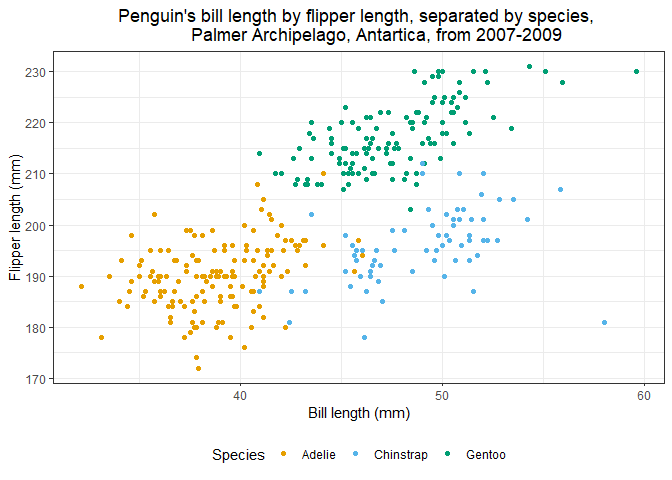
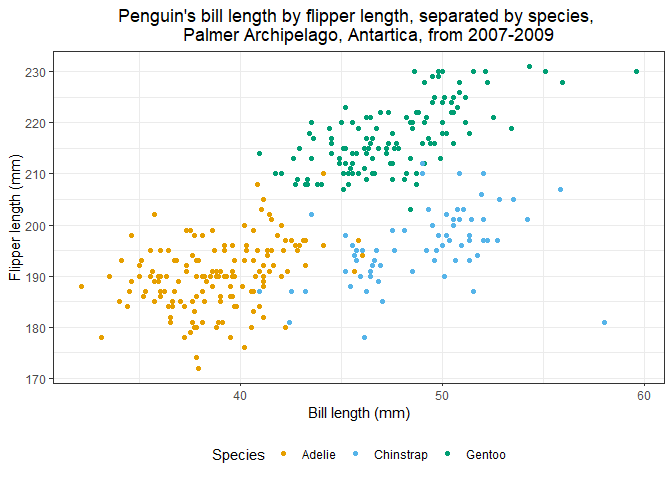
Styling changes for code chunks

Changed region(s): [[0.25, 0.0312, 0.8438, 0.0938]]

diff --git a/src/homework1-andres-arguedas.md b/src/homework1-andres-arguedas.md
@@ -36,13 +36,14 @@ sim_data <- tibble(
   # 2 with sample size 1000
   y = rnorm(n = 1000, mean = 1, sd = 2),
   # Use the `ifelse()` function to create a logical variable if x+y>0.5
-  sum_indicator = ifelse(x + y > 0.5, TRUE, FALSE)) %>% 
+  sum_indicator = ifelse(x + y > 0.5, TRUE, FALSE)
+) %>%
   mutate(
     # Create a new categorical variable based on the `sum_indicator` variable
-    indicator_TRUE = factor(sum_indicator,
-                            labels = c("No", "Yes")),
+    indicator_TRUE = factor(sum_indicator, labels = c("No", "Yes")),
     # Reorder the factor levels so that `Yes` comes before `No`
-    indicator_TRUE = fct_relevel(indicator_TRUE, "Yes", "No"))
+    indicator_TRUE = fct_relevel(indicator_TRUE, "Yes", "No")
+  )
 ```
 
 Having created the simulated data, as well as the other required
@@ -54,22 +55,23 @@ scatterplot is presented as the following figure:
 ``` r
 # Create a scatter plot of `x` against `y`, with coloring depending on if
 # $x+y>0.5$ or not, based on the simulated data from `sim_data`
-sim_data %>% 
+sim_data %>%
   # Specify the required aesthetic options in the `ggplot()` function
   ggplot(aes(x = x, y = y, col = indicator_TRUE)) +
   # Add points to the plot
   geom_point() +
   # Add titles to the plot, axes, and legends
   labs(
-  title = "A random sample of size 1000, from an independent bivariate normal 
-  distribution, one with mean 0 and standard deviation 1, and the other 
-  with mean 1 and standard deviation 2, colored according to if the 
-  sum of a point is greater than 0.5",
-  # The `expression()` function allows us to introduce simple math terms into
-  # text to be rendered directly by R into the plots
-  x = expression(X %~% N(0,1)),
-  y = expression(Y %~% N(1,2)),
-  col = expression(X + Y > 0.5))
+    title = "A random sample of size 1000, from an independent bivariate normal 
+    distribution, one with mean 0 and standard deviation 1, and the 
+    other with mean 1 and standard deviation 2, colored according 
+    to if the sum of a point is greater than 0.5",
+    # The `expression()` function allows us to introduce simple math terms into
+    # text to be rendered directly by R into the plots
+    x = expression(X %~% N(0, 1)),
+    y = expression(Y %~% N(1, 2)),
+    col = expression(X + Y > 0.5)
+  )
 ```
 
 ![](homework1-andres-arguedas_files/figure-gfm/plot-of-simulated-data-1.png)<!-- -->
@@ -134,18 +136,20 @@ following figure:
 
 ``` r
 # Create a scatterplot of penguin's bill and flipper length, by species
-penguin.df %>% 
+penguin.df %>%
   # Define the variables in the x and y axes, as well as the variable with which
   # to color the different points
   ggplot(aes(y = flipper_length_mm, x = bill_length_mm, col = species)) +
   # Add points to the plot
   geom_point() +
   # Add titles to the plot, axes, and legend
-  labs(title = "Penguin's bill length by flipper length, separated by species, 
-       Palmer Archipelago, Antartica, from 2007-2009",
-       x = "Bill length (mm)",
-       y = "Flipper length (mm)",
-       col = "Species")
+  labs(
+    title = "Penguin's bill length by flipper length, separated by species, 
+    Palmer Archipelago, Antartica, from 2007-2009",
+    x = "Bill length (mm)",
+    y = "Flipper length (mm)",
+    col = "Species"
+  )
 ```
 
 ![](homework1-andres-arguedas_files/figure-gfm/flipper-and-bill-length-by-species-1.png)<!-- -->
@@ -163,28 +167,30 @@ presented in the following figure:
 
 ``` r
 # Create a scatterplot of penguin's bill and flipper length, by species and sex
-penguin.df %>% 
+penguin.df %>%
   # Drop any observation for which the penguin's sex was not recorded
-  filter(!is.na(sex)) %>% 
+  filter(!is.na(sex)) %>%
   # Rename the `sex` variable to `Sex` for ease of use when labelling the plot
-  rename(Sex = sex) %>% 
+  rename(Sex = sex) %>%
   # Change the names of the labels for the categories of the `Sex` variable so
   # it's easier to use in the plot
-  mutate(Sex = recode(Sex, female = "Female", male = "Male")) %>% 
+  mutate(Sex = recode(Sex, female = "Female", male = "Male")) %>%
   # Add the corresponding variables in the x and y-axis, as well as the variable
   # to be used for coloring the different observations
   ggplot(aes(y = flipper_length_mm, x = bill_length_mm, col = species)) +
   # Separate the plot further according to the `Sex` variable, and use both the
   # variable and category names to label the corresponding facets
-  facet_grid(~ Sex, labeller = label_both) +
+  facet_grid(~Sex, labeller = label_both) +
   # Add points to the plot
   geom_point() +
   # Add titles to the plot, axes, and legend
-  labs(title = "Penguin's bill length by flipper length, separated by species and sex,
-       Palmer Archipelago, Antartica, from 2007-2009",
-       x = "Bill length (mm)",
-       y = "Flipper length (mm)",
-       col = "Species")
+  labs(
+    title = "Penguin's bill length by flipper length, separated by species and sex,
+    Palmer Archipelago, Antartica, from 2007-2009",
+    x = "Bill length (mm)",
+    y = "Flipper length (mm)",
+    col = "Species"
+  )
 ```
 
 ![](homework1-andres-arguedas_files/figure-gfm/flipper-and-bill-length-by-species-and-sex-1.png)<!-- -->
